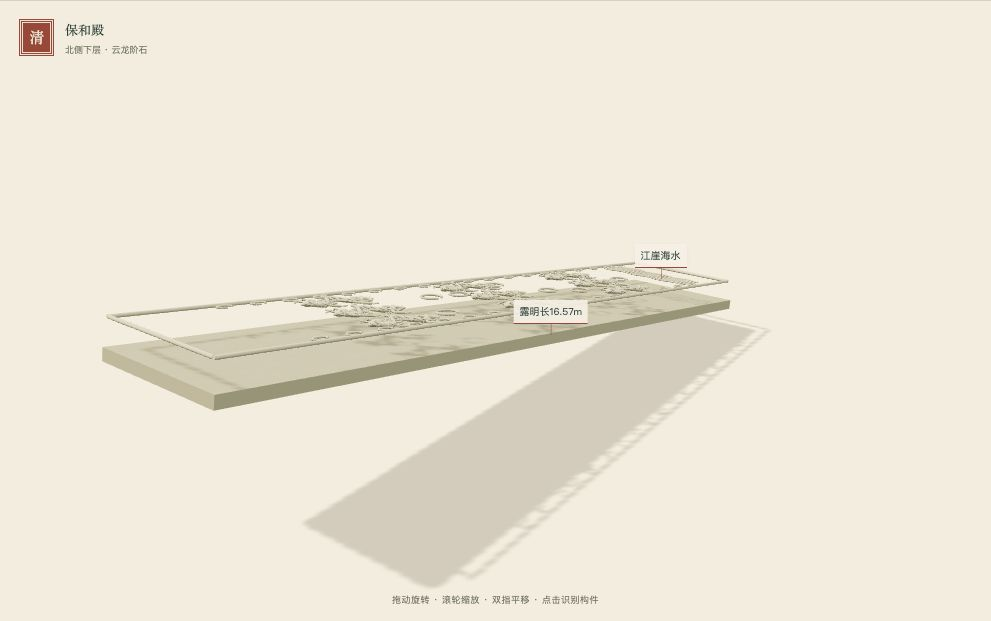
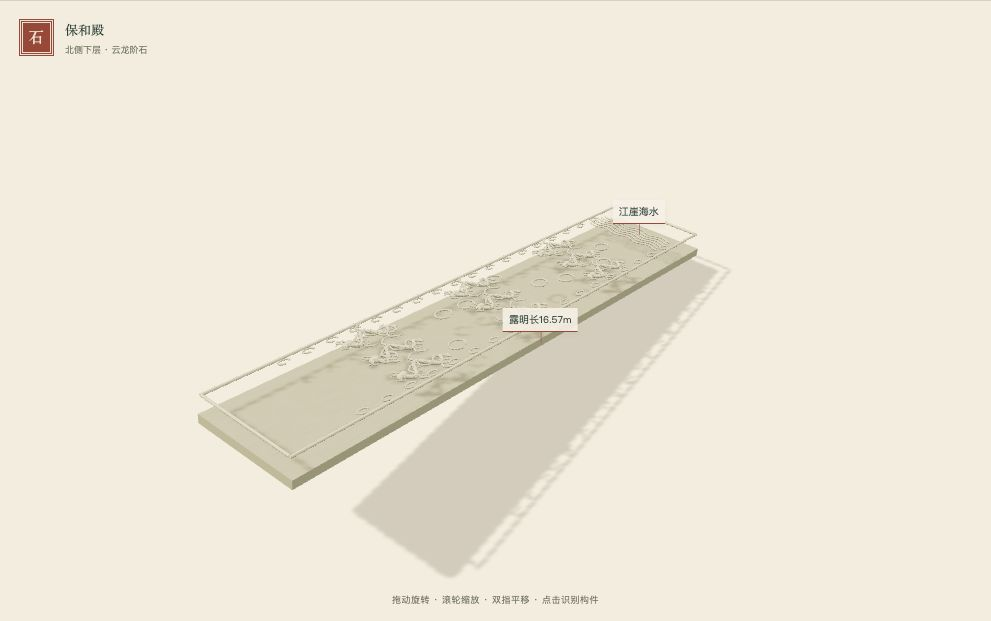
Complete and validate the ten-volume architecture collection

diff --git a/chinese-architecture/baohe/index.html b/chinese-architecture/baohe/index.html
@@ -4,14 +4,14 @@
 <link rel="icon" href="../../favicon-32.png"><link rel="stylesheet" href="style.css">
 <script type="importmap">{"imports":{"three":"../vendor/three.module.js"}}</script><script type="module" src="app.js"></script>
 </head><body>
-<header class="topbar"><a href="../../">← ReadForFun · 书架</a><a href="../fengxian/">第四卷 · 奉先殿</a><a class="brand" href="#">美轮美奂 <span>中国传统建筑艺术</span></a><a href="#evidence">资料与复原依据 ↗</a></header>
+<header class="topbar"><a href="../collection/">← 美轮美奂 · 合集</a><a href="../dianchunyi/">第九卷 · 殿春簃</a><a class="brand" href="#">美轮美奂 <span>中国传统建筑艺术</span></a><a href="#evidence">资料与复原依据 ↗</a></header>
 <main>
 <section class="intro"><div><p class="eyebrow">第十卷 · 台基雕作 · 木石之间</p><h1>故宫<span>保和殿</span><i class="seal">营<br>造</i></h1><p class="english">BAOHE DIAN · STONEWORK OF THE NORTHERN TERRACES</p></div><div class="intro-note"><span>石有层次，雕饰有位。</span><p>共用三台 · 北侧御路 · 栏间与螭首<br>旋转、剖切、拆合，循着构件读懂石作。</p></div></section>
 <nav id="chapters" class="chapters" aria-label="建筑研究步骤"></nav>
 <section id="studio" class="studio" aria-label="保和殿三维研究台">
 <aside class="layer-sidebar"><div class="panel-heading"><span>构造层</span><button id="layers-all">全部显示</button></div><p class="micro">逐层开关，看清前后与上下。</p><div id="layer-list"></div><div class="legend"><span><i class="documented"></i>三台与御路主题有据</span><span><i class="inferred"></i>细部为比例重建</span></div><button id="evidence-open" class="text-link">查看精度边界 ↘</button></aside>
 <div class="viewer-column"><div class="viewer-toolbar"><div class="view-buttons" role="group" aria-label="相机视角"><button data-view="iso" aria-pressed="true">斜观</button><button data-view="front" aria-pressed="false">前檐</button><button data-view="side" aria-pressed="false">东向</button><button data-view="back" aria-pressed="false">北向</button><button data-view="top" aria-pressed="false">俯视</button></div><button id="reset-view" title="恢复初始模型、构造层与视角">↺ 复位</button><button id="fullscreen" title="展开三维视图">⛶</button></div>
-<div id="viewport" tabindex="0" aria-label="可交互三维建筑。拖动旋转，滚轮缩放；也可用上方视角按钮。"><div id="model-loading" role="status">正在搭建台基与石栏…</div><div id="model-error" hidden role="alert"><strong>三维视图暂时无法显示</strong><p>请使用支持 WebGL 2 的浏览器，或重新加载。下方构造说明和研究依据仍可阅读。</p><button onclick="location.reload()">重新加载</button></div><div id="model-labels" aria-hidden="true"></div><div class="viewport-corner"><span class="seal">清</span><span>保和殿<br><small id="model-mode">构造研究模型</small></span></div><div class="viewport-hint">拖动旋转 · 滚轮缩放 · 双指平移 · 点击识别构件</div><div id="selection-chip" hidden></div></div>
+<div id="viewport" tabindex="0" aria-label="可交互三维建筑。拖动旋转，滚轮缩放；也可用上方视角按钮。"><div id="model-loading" role="status">正在搭建台基与石栏…</div><div id="model-error" hidden role="alert"><strong>三维视图暂时无法显示</strong><p>请使用支持 WebGL 2 的浏览器，或重新加载。下方构造说明和研究依据仍可阅读。</p><button onclick="location.reload()">重新加载</button></div><div id="model-labels" aria-hidden="true"></div><div class="viewport-corner"><span class="seal">石</span><span>保和殿<br><small id="model-mode">构造研究模型</small></span></div><div class="viewport-hint">拖动旋转 · 滚轮缩放 · 双指平移 · 点击识别构件</div><div id="selection-chip" hidden></div></div>
 <div id="node-picker" class="node-picker" hidden><label for="node-select">局部观察</label><select id="node-select"></select><span>局部 +Z 为台外；展开为观察位移，非施工步骤。</span></div><div class="viewer-controls"><div class="explode-control"><label for="explode"><span id="explode-label">分层拆解</span><output id="explode-value">0%</output></label><input id="explode" type="range" min="0" max="100" value="0" aria-label="模型拆解程度"></div><button id="explode-toggle">展开</button><label class="check-control"><input type="checkbox" id="section-toggle">剖切</label><label class="check-control"><input type="checkbox" id="labels-toggle" checked>标注</label><label class="check-control"><input type="checkbox" id="color-toggle">构造分色</label><label class="check-control"><input type="checkbox" id="finish-toggle">教学本色</label></div>
 <div id="section-controls" class="section-controls" hidden><label>剖切方向 <select id="section-axis"><option value="x">东西向移动</option><option value="z">南北向移动</option></select></label><input id="section-position" type="range" min="-100" max="100" value="0" aria-label="剖切位置"><button id="section-flip">反向保留</button></div>
 <div class="viewer-status"><span id="model-stats">构件加载中</span><span id="view-status" aria-live="polite">整体视图</span></div>
@@ -20,5 +20,5 @@
 </section>
 <section class="reading-section"><div><p class="eyebrow">台基雕作的阅读顺序</p><h2>石有重量，<br>纹样有位置。</h2></div><div class="reading-copy"><p>先从保和殿看三台，再靠近北侧御路。栏板、望柱和地栿各有边界；雕龙、流云与海水属于石面的雕刻，螭首则把装饰与排水出口合为一体。</p><div class="load-path"><span>整殿与台域</span><b>→</b><span>栏间与踏道</span><b>→</b><span>石面与出口</span></div><p class="micro">南缘为教学裁口。局部移位用于观察；雕饰不是另加的独立石件。出口阅读线不是流体仿真。</p></div></section>
 <section id="evidence" class="evidence"><div class="section-heading"><p class="eyebrow">资料与模型之间</p><h2>可见形态，明示边界。</h2></div><p class="evidence-intro">这是保和殿及直接相连台基的独立研究卷。三台是三殿共用台基，本卷只裁取北端；不把矩形裁块当成完整“土”字平面，不把外观照片当成隐藏结构证据。</p><div class="evidence-grid"><article><span class="evidence-tag">文献明确</span><h3>三台与北侧大石雕</h3><p>官方形制与杨乃济原刊页15支持三重台基、御路分层与露明尺寸。下层长石按乾隆重雕后的九龙、流云、海水、卷草组织。</p></article><article><span class="evidence-tag approximate">图像判读 · 比例推定</span><h3>栏间、线脚与雕饰</h3><p>故宫保和殿区域照片支持地栿、透空栏板、望柱头与螭首外形。逐栏尺寸、台层高度、主殿柱网坐标与屋架比例为教学推定；原创纹样并非拓片复原。</p></article><article><span class="evidence-tag unresolved">待核定</span><h3>基础、暗榫与内沟</h3><p>未建石榫、地下填筑与基础、台内暗沟。剖切后的均质台体只占位。未亲阅保和殿大木构架逐榀测绘，不声称已复原减柱区真实复杂梁端。</p></article></div><p class="evidence-intro">原书沿用前卷书目：楼庆西《美轮美奂：中国建筑装饰艺术》（2014，ISBN 9787112143085）。台基雕作是选题框架；正文未取得，保和殿是否收录、章节页码与图号映射待补。</p><p class="micro">石种：杨文称汉白玉，曹文称艾叶青，暂不以自然色解决材质争议。参考色概括现状，教学本色与构造分色用于阅读，未复原历史色谱。剖切没有实体封口；观察拆合不表示施工、结构或水力模拟。</p><div id="sources" class="sources"></div><a href="MODEL_NOTES.md" class="text-link">阅读参数、来源与精度边界 ↗</a></section>
-<footer><span>美轮美奂 · 保和殿研究卷</span><a href="../../">返回书架 ↗</a><small>原创参数化几何 · Three.js（MIT）· 模型尺度以米计</small></footer>
+<footer><span>美轮美奂 · 保和殿研究卷</span><a href="../collection/">返回合集 ↗</a><small>原创参数化几何 · Three.js（MIT）· 模型尺度以米计</small></footer>
 </main></body></html>

diff --git a/index.html b/index.html
@@ -958,46 +958,29 @@
               <button class="filter-button" type="button" data-filter="art" aria-pressed="false">艺术</button>
               <button class="filter-button" type="button" data-filter="game" aria-pressed="false">游戏</button>
             </div>
-            <p id="resultCount" class="result-count" aria-live="polite">10 个项目</p>
+            <p id="resultCount" class="result-count" aria-live="polite">9 个项目</p>
           </div>
         </div>
       </div>
 
       <section id="collectionGrid" class="collection-grid" aria-label="故事合集">
-        <article class="collection-card" data-category="art" data-search="美轮美奂 第十卷 保和殿 台基雕作 三台 御路 云龙阶石 栏板 望柱 地栿 螭首 architecture">
-          <a class="collection-link" href="chinese-architecture/baohe/" aria-label="打开《美轮美奂 · 第十卷 保和殿与台基雕作》">
-            <div class="collection-cover" style="background:#e8dfc9;"><img src="chinese-architecture/baohe/previews/whole.jpg" alt="第十卷保和殿、共用三台北端与御路石三维研究模型" style="display:block;width:100%;height:100%;object-fit:cover;"></div>
-            <div class="collection-copy"><p class="collection-kicker" style="color:#716c56;">ART · VOLUME X</p><h2>美轮美奂 · 保和殿</h2><p class="collection-summary">台基雕作 · 从整殿走入云龙阶石、栏间与螭首，拆读石件、承托和雕饰，明确共用三台的北端观察范围。</p><span class="collection-read">进入第十卷 ↗</span></div>
-          </a>
-        </article>
-        <article class="collection-card" data-category="art" data-search="美轮美奂 第九卷 殿春簃 网师园 户牖之艺 长窗 心仔 隔扇 框景 architecture">
-          <a class="collection-link" href="chinese-architecture/dianchunyi/" aria-label="打开《美轮美奂 · 第九卷 殿春簃》">
-            <div class="collection-cover" style="background:#e8dfc9;"><img src="chinese-architecture/dianchunyi/previews/whole.jpg" alt="第九卷殿春簃南向长窗与硬山小轩三维研究模型" style="display:block;width:100%;height:100%;object-fit:cover;"></div>
-            <div class="collection-copy"><p class="collection-kicker" style="color:#5b7464;">ART · VOLUME IX</p><h2>美轮美奂 · 殿春簃</h2><p class="collection-summary">户牖之艺 · 拆读长窗边梃、抹头与透空心仔，循梁檩椽回到柱网；从室内三窗观看后庭，明确区分通用开启练习与原轩待核节点。</p><span class="collection-read">进入第九卷 ↗</span></div>
-          </a>
-        </article>
-        <article class="collection-card" data-category="art" data-search="architecture decoration traditional chinese art 中国 传统 建筑 艺术 美轮美奂 斗拱 柱础 榫卯 梁柱 佛光寺 东大殿 三维 3D 剖切 美轮美奂 独乐寺 观音阁 第二卷 辽代 木构 叉柱 斗拱 建筑 三维 3D architecture decoration 美轮美奂 应县木塔 佛宫寺 释迦塔 第三卷 辽代 五明四暗 八角 双圈 斗拱 architecture 美轮美奂 奉先殿 前殿 第四卷 清代 七踩 九踩 溜金 旋子 彩画 三交六椀 重檐 庑殿 architecture 美轮美奂 晋祠 圣母殿 第五卷 宋代 盘龙 深廊 斜面 梁栿 重檐 歇山 architecture 美轮美奂 第六卷 天坛 祈年殿 方井 弧梁 龙井柱 圆形 藻井 蓝瓦 architecture 美轮美奂 第七卷 千门之美 画中游 垂花门 悬柱 十二垂头 挑梁 颐和园 architecture 美轮美奂 第八卷 雕梁画栋 宏村 承志堂 前厅 雀替 宴官图 木雕 浮雕 透雕 architecture">
+
+        <article class="collection-card" data-category="art" data-search="architecture decoration traditional chinese art 中国 传统 建筑 艺术 美轮美奂 斗拱 柱础 榫卯 梁柱 佛光寺 东大殿 三维 3D 剖切 美轮美奂 独乐寺 观音阁 第二卷 辽代 木构 叉柱 斗拱 建筑 三维 3D architecture decoration 美轮美奂 应县木塔 佛宫寺 释迦塔 第三卷 辽代 五明四暗 八角 双圈 斗拱 architecture 美轮美奂 奉先殿 前殿 第四卷 清代 七踩 九踩 溜金 旋子 彩画 三交六椀 重檐 庑殿 architecture 美轮美奂 晋祠 圣母殿 第五卷 宋代 盘龙 深廊 斜面 梁栿 重檐 歇山 architecture 美轮美奂 第六卷 天坛 祈年殿 方井 弧梁 龙井柱 圆形 藻井 蓝瓦 architecture 美轮美奂 第七卷 千门之美 画中游 垂花门 悬柱 十二垂头 挑梁 颐和园 architecture 美轮美奂 第八卷 雕梁画栋 宏村 承志堂 前厅 雀替 宴官图 木雕 浮雕 透雕 architecture 美轮美奂 第九卷 殿春簃 网师园 户牖之艺 长窗 心仔 隔扇 框景 architecture 美轮美奂 第十卷 保和殿 台基雕作 三台 御路 云龙阶石 栏板 望柱 地栿 螭首 architecture">
           <a class="collection-link" href="chinese-architecture/collection/" aria-label="打开合集《美轮美奂 · 中国传统建筑艺术》">
             <div class="collection-cover">
               <span class="collection-sheet" style="background-image:url('chinese-architecture/yingxian/previews/whole.jpg')"></span>
               <span class="collection-sheet" style="background-image:url('chinese-architecture/qinian/previews/whole.jpg')"></span>
               <span class="collection-sheet" style="background-image:url('chinese-architecture/cover-3d.jpg')"></span>
-              <span class="collection-badge">COLLECTION · CHINESE ARCHITECTURE</span>
+              <span class="collection-badge">10 VOLUMES · CHINESE ARCHITECTURE</span>
             </div>
             <div class="collection-copy">
               <p class="collection-kicker" style="color:#9e4538;">COLLECTION · TRADITIONAL CHINESE ARCHITECTURE</p>
               <h2>美轮美奂</h2>
-              <p class="collection-summary">中国传统建筑艺术 · 从佛光寺到保和殿，逐卷旋转、剖切与拆合，读懂木石构造与装饰。</p>
+              <p class="collection-summary">十卷中国传统建筑艺术 · 从佛光寺到保和殿，逐卷旋转、剖切与拆合，读懂木石构造与装饰。</p>
               <span class="collection-read">进入合集 ↗</span>
             </div>
           </a>
         </article>
-
-
-
-
-
-
 
         <article class="collection-card" data-category="story" data-search="planet earth nature coast ocean forest grassland 地球 自然 海岸 海洋 森林 草原">
           <a class="collection-link" href="our-planet-earth/" aria-label="打开合集《我们的星球 - 地球》">

diff --git a/chinese-architecture/dianchunyi/index.html b/chinese-architecture/dianchunyi/index.html
@@ -4,7 +4,7 @@
 <link rel="icon" href="../../favicon-32.png"><link rel="stylesheet" href="style.css">
 <script type="importmap">{"imports":{"three":"../vendor/three.module.js"}}</script><script type="module" src="app.js"></script>
 </head><body>
-<header class="topbar"><a href="../../">← ReadForFun · 书架</a><a href="../chengzhi/">第八卷 · 承志堂</a><a class="brand" href="#">美轮美奂 <span>中国传统建筑艺术</span></a><a href="#evidence">资料与复原依据 ↗</a></header>
+<header class="topbar"><a href="../collection/">← 美轮美奂 · 合集</a><a href="../chengzhi/">第八卷 · 承志堂</a><a class="brand" href="#">美轮美奂 <span>中国传统建筑艺术</span></a><a href="#evidence">资料与复原依据 ↗</a></header>
 <main>
 <section class="intro"><div><p class="eyebrow">第九卷 · 园林户牖与框景</p><h1>殿春<span>簃</span><i class="seal">营<br>造</i></h1><p class="english">DIANCHUNYI · A VIEW THROUGH THE WINDOW</p></div><div class="intro-note"><span>窗有界，景无尽。</span><p>南向长窗 · 北墙三窗 · 蕉竹石<br>旋转、剖切、拆合，循着构件读懂木构。</p></div></section>
 <nav id="chapters" class="chapters" aria-label="建筑研究步骤"></nav>
@@ -22,5 +22,5 @@
 </section>
 <section class="reading-section"><div><p class="eyebrow">本卷的阅读路径</p><h2>把窗看清，<br>再把景看远。</h2></div><div class="reading-copy"><p>柱与梁围合房间，门框接纳长窗，边梃与抹头收住格心。格心有孔，下板有实木；它们改变采光、通行与可见范围。北面三个窗洞把后庭纳入室内，移动观察位，就能看见近远遮挡的变化。</p><div class="load-path"><span>瓦面 · 椽檩</span><b>↓</b><span>横架 · 联系枋</span><b>↓</b><span>柱 · 石础</span></div><p class="micro">窗扇与心仔是围护木作，不能代替承重柱。分层展开仅为观察；通用开启练习与建筑原件证据分开。</p></div></section>
 <section id="evidence" class="evidence"><div class="section-heading"><p class="eyebrow">资料与模型之间</p><h2>窗有据，未知仍留白。</h2></div><p class="evidence-intro">研究对象始终是苏州网师园殿春簃正轩。2025数字测绘论文提供历史图纸与现状对照；本卷依据图1的平面、南立面、剖透视表达建筑关系，并用图2核查体量。现状有修缮变迁，本模型既非清代原貌，也非原论文点云的直接转换。</p><div class="evidence-grid"><article><span class="evidence-tag">文献明确</span><h3>硬山小轩与独立后庭</h3><p>论文研究对象说明小轩带复室书房。图1记录三间正轩与后庭窗洞、图2呈现2024—2025采集后的模型。西复室仅提示界面，南大庭只保留阶石。</p></article><article><span class="evidence-tag approximate">图像判读 · 比例推定</span><h3>梁架与门窗的关系</h3><p>柱线、横架、长窗与窗洞关系参考原图。模型面阔7.2米、进深4.8米、梁架标高与木作截面为教学选值，未把无标注的图像量取当作建筑实测。</p></article><article><span class="evidence-tag unresolved">待核定</span><h3>开启、暗榫与历史色</h3><p>本轩轴榫、折叠关系、玻璃状态、门窗逐条纹样、隐藏接合与修缮替换待核。开启练习是通用假设；木石本色和淡木色都是教学外观，无历史色谱复原。</p></article></div><p class="evidence-intro">海外参照单列：纽约明轩是经改编的博物馆庭院，大都会馆藏记录的木种、五金和尺寸不用于苏州原轩。原书为楼庆西《美轮美奂：中国建筑装饰艺术》（2014，ISBN 9787112143085），本卷“户牖之艺”的正文、实例与页码对应待补。</p><p class="micro">未取得原点云、全套节点与逐件尺寸；剖切无实体封口；后庭植石为概括语境。完整研究记录与来源局限见下方文档。</p><div id="sources" class="sources"></div><a href="MODEL_NOTES.md" class="text-link">阅读参数、证据表与建模记录 ↗</a></section>
-<footer><span>美轮美奂 · 殿春簃研究卷</span><a href="../../">返回书架 ↗</a><small>原创参数化几何 · Three.js（MIT）· 模型尺度以米计</small></footer>
+<footer><span>美轮美奂 · 殿春簃研究卷</span><a href="../collection/">返回合集 ↗</a><small>原创参数化几何 · Three.js（MIT）· 模型尺度以米计</small></footer>
 </main></body></html>

diff --git a/chinese-architecture/collection/index.html b/chinese-architecture/collection/index.html
@@ -4,7 +4,7 @@
   <meta charset="utf-8">
   <meta name="viewport" content="width=device-width, initial-scale=1">
   <title>美轮美奂 · 中国传统建筑艺术合集 · ReadForFun</title>
-  <meta name="description" content="美轮美奂：中国传统建筑艺术交互合集。从佛光寺到承志堂，逐卷进入木构、斗拱、榫卯与装饰的三维世界。">
+  <meta name="description" content="美轮美奂：中国传统建筑艺术交互合集。从佛光寺到保和殿，逐卷进入木构、斗拱、榫卯与装饰的三维世界。">
   <link rel="icon" href="../../favicon-32.png">
   <link rel="stylesheet" href="../../collections.css">
   <link rel="stylesheet" href="style.css">
@@ -24,12 +24,12 @@
           <h1 id="collection-title">美轮美奂</h1>
           <p class="collection-subtitle">中国传统建筑艺术</p>
           <p>从一座建筑，读懂一榫一卯。走入殿堂、楼阁与庭院，在旋转、剖切与拆合之间，看见构造如何托起装饰。</p>
-          <div class="hero-meta">逐卷入藏 · 三维交互 · 构造与装饰</div>
+          <div class="hero-meta">十卷入藏 · 三维交互 · 构造与装饰</div>
           <a class="browse-volumes" href="#volumes">浏览卷目 ↓</a>
         </div>
       </section>
-      <div class="volume-heading" id="volumes"><h2>卷目</h2><p>十卷规划 · 已入藏卷目</p></div>
-      <section class="story-list" aria-label="美轮美奂已入藏卷目">
+      <div class="volume-heading" id="volumes"><h2>卷目</h2><p>第一卷 — 第十卷</p></div>
+      <section class="story-list" aria-label="美轮美奂第一至第十卷">
         <article class="story-card" id="volume-1">
           <a class="volume-cover" href="../" aria-label="进入第一卷：佛光寺东大殿"><img class="story-cover" src="../cover-3d.jpg" alt="佛光寺东大殿三维研究模型" loading="lazy" width="800" height="540"></a>
           <div><p class="episode">第一卷 · 构造与装饰</p><h2><a href="../">佛光寺东大殿</a></h2><p>聚焦佛光寺东大殿 · 三维旋转、剖切与逐层拆合，深入柱网、铺作、梁架和椽瓦的空间结构。</p><a class="read-story" href="../">进入第一卷 ↗</a></div>
@@ -61,6 +61,10 @@
         <article class="story-card" id="volume-8">
           <a class="volume-cover" href="../chengzhi/" aria-label="进入第八卷：承志堂前厅"><img class="story-cover" src="../chengzhi/previews/whole.jpg" alt="承志堂前厅三维研究模型" loading="lazy" width="800" height="540"></a>
           <div><p class="episode">第八卷 · 构造与装饰</p><h2><a href="../chengzhi/">承志堂前厅</a></h2><p>雕梁画栋 · 从厅口梁面走入木雕深处，拆读雀替接触边、宴官图层次与隔扇透空，把图像有据的轮廓和推定屋架分开读。</p><a class="read-story" href="../chengzhi/">进入第八卷 ↗</a></div>
+        </article>
+        <article class="story-card" id="volume-9">
+          <a class="volume-cover" href="../dianchunyi/" aria-label="进入第九卷：网师园殿春簃"><img class="story-cover" src="../dianchunyi/previews/whole.jpg" alt="殿春簃木构、长窗与后庭视线三维研究模型" loading="lazy" width="800" height="540"></a>
+          <div><p class="episode">第九卷 · 户牖之艺</p><h2><a href="../dianchunyi/">网师园殿春簃</a></h2><p>拆读长窗边梃、抹头与透空心仔，循梁檩椽回到柱网；从室内三窗观看后庭，区分通用开启练习与原轩待核节点。</p><a class="read-story" href="../dianchunyi/">进入第九卷 ↗</a></div>
         </article>
         <article class="story-card" id="volume-10">
           <a class="volume-cover" href="../baohe/" aria-label="进入第十卷：保和殿与台基雕作"><img class="story-cover" src="../baohe/previews/whole.jpg" alt="保和殿、三台北端与御路石三维研究模型" loading="lazy" width="800" height="540"></a>

diff --git a/chinese-architecture/baohe/app.js b/chinese-architecture/baohe/app.js
@@ -113,7 +113,7 @@ function fittedPosition(direction){
 }
 function setView(view,animate=true){
  if(!camera)return;const detailView=activeModel===detail;let direction;
- switch(view){case 'front':direction=new THREE.Vector3(0,.10,1);break;case 'back':direction=new THREE.Vector3(0,.10,-1);break;case 'side':direction=new THREE.Vector3(1,.12,0);break;case 'top':direction=new THREE.Vector3(0,1,.001);break;default:direction=new THREE.Vector3(1,.52,detailView?1.2:-1.2);}
+ switch(view){case 'front':direction=new THREE.Vector3(0,.10,1);break;case 'back':direction=new THREE.Vector3(0,.10,-1);break;case 'side':direction=new THREE.Vector3(1,.12,0);break;case 'top':direction=new THREE.Vector3(0,1,.001);break;default:direction=new THREE.Vector3(1,detailView&&detailNode==='ramp'?1.15:.52,detailView?1.2:-1.2);}
  const {target,destination}=fittedPosition(direction);
  if(animate&&!reduced)animation={from:camera.position.clone(),to:destination,fromTarget:controls.target.clone(),toTarget:target,start:performance.now(),duration:450};
  else{camera.position.copy(destination);controls.target.copy(target);camera.lookAt(target);controls.update();}

diff --git a/chinese-architecture/baohe/VALIDATION.md b/chinese-architecture/baohe/VALIDATION.md
@@ -1,0 +1,60 @@
+# 第十卷本地验收 · 2026-10-13
+
+可运行本地研究展卷：[保和殿与台基雕作](http://localhost:8765/chinese-architecture/baohe/)。本任务未执行提交、推送或发布。书架与建筑合集均已有第十卷入口；没有修改其他卷模型、测试或截图。
+
+## 模型检查
+
+```sh
+node --test chinese-architecture/baohe/tests/model.test.js chinese-architecture/tests/model.test.js chinese-architecture/dule/tests/model.test.js chinese-architecture/yingxian/tests/model.test.js chinese-architecture/fengxian/tests/model.test.js chinese-architecture/jinci/tests/model.test.js chinese-architecture/qinian/tests/model.test.js
+```
+
+本次快照 **81项通过**，本卷13项，前六卷合计68项。前卷测试数来自此次实际文件，不据此宣告其他任务完整验收。
+
+本卷核验：
+
+- 九间五间外围、前金列教学减六柱；38个教学主柱位不重复。具体柱站位与总数仍为推定。
+- 每柱脚接自己的石础上皮；前列转承教学骨架两端接保留金柱。没有用无解释的悬空柱替代减柱关系；该跨接不代表真实单根大梁。
+- 三台层级、共同南裁口和不闭合南缘栏杆；台体占位与完整土字形平面分开。
+- 大御路取露明面16.57×3.07m，与整料基准分开；三级斜面上下端接教学台层标高，两側14步为推定。
+- 九个龙纹主题依附同一长石面；雕面观察分离不当成独立石件。
+- 一栏间包含地栿、两望柱、实板与上部透空承托件；石榫没有虚构。
+- 螭首朝北、东、西对应台外，口沿中孔不填黑片；北栏没有重复叠建。外口和头部原位拼合，没有在口前再放阻塞出口的实体。
+- 下檐真实中心孔、独立上脊与山面；椽线逐段采样在本教学瓦面下。
+- 桁下短柱头接桁下皮，上屋架短柱头接下一梁下皮；没有以节点照片声称隐藏端榫已核。
+- 全殿与四局部ID唯一，位置、方向、尺度、矩阵、几何顶点有限；所有显示类型都有拾取说明与来源状态。
+
+测试检查代码中的空间约束；不是文物测绘或结构求解。主殿逐榀梁架、真实石分件、暗榫、内部排水均未达到考证级复原。
+
+## 实际浏览器验收
+
+Chrome headless + Playwright，真实WebGL渲染。1600×1150桌面、390×844手机触屏模拟、1366×900减少动态。最终代码与材质改动后重新运行通过。
+
+```sh
+PLAYWRIGHT_MODULE=/absolute/path/to/playwright/index.mjs CHROME_EXECUTABLE='/absolute/path/to/Google Chrome' node chinese-architecture/baohe/tests/browser.mjs
+```
+
+复用已有8765静态服务；用`PREVIEW_URL`可替换。网站直接加载本地Three.js，无CDN、构建或Playwright运行依赖。
+
+- 七步全部切换；相机、章节文字、局部菜单、可见层同步。
+- 五视角，四局部合拢/最大展开及整体最大展开；可见包围盒8个角点都在画幅内，取景动态适配。
+- X/Z剖切轴、位置−100/0/100、反向保留可用；未提供实体剖切封口。
+- 显隐、全部显示、参考色/教学本色/系统分色、标注与复位可用。全殿12个实体层；第13层出口阅读线只在螭首局部有辅助几何，空层禁用。
+- 关键构件选择器和实际画布射线拾取均成功；鼠标拖动与滚轮分别改变相机；方向键、缩放、复位可用。
+- 手机没有横向溢出；CDP触屏拖动实际改变相机，局部最大展开投影全部在画幅内。此为触屏模拟，不代表真实手机GPU验收。
+- 减少动态设置下局部切换通过，加载失败区域未出现。
+- 前五卷作只读页面加载回归：标题、WebGL初始化通过。模型检查覆盖前六卷；没有运行其他卷截图生成脚本或重做其交付。
+- 根书架第十卷卡片唯一、封面加载成功、点击正确；第九卷根入口保留。
+- 合集中第十卷卡片唯一、封面和点击通过；第1—8卷原入口仍各一份。当前合集第9卷尚未由其任务归入，本任务保留其根书架入口，不改写其他卷的组织状态。
+- 本次页面脚本异常0、HTTP资源错误0；`git diff --check`通过。
+
+## 视觉复核与最终预览
+
+全部截图保存于本卷`previews/`。亲看最终全貌、南向、桌面长图、骨架、剖面、最大展开、四局部合拢/展开与手机画幅/长图。界面保持前卷暖底、石木本色与克制黄朱青绿。
+
+`whole.jpg`为北向斜观与书架封面；`desktop.jpg`桌面全页；`front.jpg`南向；`section.jpg`三台剖观；`roof-frame.jpg`揭瓦木构；`exploded.jpg`整体最大展开；`terrace.jpg`全部实体层最大展开；`mobile-whole.jpg`手机整体；`mobile.jpg`手机御路局部最大展开。`rail-*`、`chi-*`、`ramp-*`、`terrace-*`为四局部合拢/展开；`node-exploded.jpg`为云龙阶石展开。
+
+首轮检查修正了上屋两坡与侧戗坡使用不同曲线的接缝，改用同一全局参数。后续核对桁椽高差与短柱承接，加入支承测试。石雕头部、卷草、海水与流云经细化仍是原创概括，没有将精细外观升级为实测主张。
+
+## 精度边界
+
+原书正文及保和殿实例页码映射待补；官方高29.5m与1240㎡的基准不直接用于推算本模型各尺寸；北端各层抄平、真实柱位/移柱/减柱转承、逐科昂尾、石分件、石榫铁件、地下基础、台内暗沟、大石雕埋入部分、精确雕刻/石种、历史颜色、转角大螭、跨浏览器及真机GPU未核。模型仅表达可追溯的形制、可见载体及明确标记的教学推定。详情见[MODEL_NOTES.md](MODEL_NOTES.md)。

diff --git a/chinese-architecture/SERIES_PLAN.md b/chinese-architecture/SERIES_PLAN.md
@@ -1,6 +1,6 @@
 # 美轮美奂系列十卷规划
 
-本系列确定以 **10 卷**收束。第 1—7 卷已有独立本地交付记录；第 8 卷的并行交付补记保留，后续数量按下方实时核查口径说明。每卷继续聚焦一座主建筑，深入其构造与装饰，不以增加建筑数量代替模型质量。
+本系列确定以 **10 卷**收束。第 1—10 卷均已有本地交付记录，并已归入同一合集。每卷继续聚焦一座主建筑，深入其构造与装饰，不以增加建筑数量代替模型质量。
 
 这是本项目的编排决定，不是原书的卷数，也不表示已覆盖原书全部实例或完成逐页改编。第 7—10 卷的主题与卷号固定，主建筑为优先研究对象；测绘资料不足时，可在同一主题内替换实例，不自动增加卷数。
 
@@ -36,17 +36,14 @@
 
 ## 剩余数量的口径
 
-> 第九卷交付补记（2026-10-13）：第9卷已独立完成本地实现、模型测试、桌面/手机模拟验收与书架入口。下方既有数量来自前次核查；本补记仅更新第9卷，第10卷及全系列最新合计由其独立交付记录与后续汇总确认，不从目录出现推断完成。
+状态核查日期：2026-10-13。前八卷已有本地交付；本次核读第七、八、九、十卷独立验收记录，并补齐第九、十卷合集导航。
 
-> 第八卷交付补记（2026-10-13）：第8卷现已本地交付。原先合计为启动时基线；第七卷补记时重新读取并核查下方数量。本任务仅更新第8卷，不据此改写其他并行任务的选题和状态。后续汇总须重新读取各卷独立验收记录。
+- **还需新增的卷：0 卷**。十卷范围已全部实现。
+- **尚未本地交付的卷：0 卷**。各卷具体模型与浏览器验证以自己的 `VALIDATION.md` 为准；第一卷参见 `MODEL_NOTES.md`。
+- **合集收录：10 卷**，按第一至第十卷排列；根书架只保留一个美轮美奂合集入口，原详情地址继续有效。
+- 本次是导航整合与浏览器往返检查，没有重新执行所有模型几何验收，也没有提交、推送或发布。
 
-状态核查日期：2026-10-13。状态来自任务记录和当前工作区，不代表重新完成专业构造验收。
-
-- **按当前交付状态还需交付的卷：2 卷**，第 9—10 卷。第 8 卷依上方并行任务的交付补记计为已本地交付；此项不代表第七卷重做了第八卷验收。
-- **本次尚待核读独立验收记录的卷：3 卷**，第 8—10 卷。本次已核读第5卷独立验收，第7卷新增交付；核查时第8卷已有交付补记但 VALIDATION.md 尚未出现，第9—10卷目录正在新增，未据目录出现推断已交付。后续独立记录出现后同步此口径。
-- 第 1—7 卷已有本地交付，但仍存在各自 `MODEL_NOTES.md` 记录的未决项；这些属于原卷完善，不另算新增卷。
-
-后续报告剩余数量时，先更新交付状态，再分别说明新增与未交付。达到十卷交付、共同交互验收和证据边界记录后，本系列按当前范围收束；不把“十卷交付”称为原书全文复原或测绘级复原。
+各卷 `MODEL_NOTES.md` 中的原书映射、逐件测绘、隐蔽节点等未决问题仍需完善。十卷本地交付不代表原书全文复原、专业测绘验收或全部考证完成。合集整合验收见 [collection/VALIDATION.md](collection/VALIDATION.md)。
 
 ## 后续执行
 

diff --git a/chinese-architecture/collection/VALIDATION.md b/chinese-architecture/collection/VALIDATION.md
@@ -1,0 +1,18 @@
+# 十卷合集导航验收
+
+2026-10-13，本地整合完成，未提交、推送或发布。
+
+核读第七至第十卷独立验收记录后，将第九卷补入既有合集、第十卷保留一份，按 1—10 排列。根书架统一保留一个合集入口，各卷原地址保持有效；第九、十卷顶部和页脚返回合集。README、制作规范、项目说明及规划中的数量已同步。
+
+Chrome headless + Playwright，1440×1000 桌面、390×844 手机触屏模拟：
+
+- 合集十张卡片的 ID 唯一、顺序正确，全部封面解码成功。
+- 十卷逐一从合集进入原详情地址，WebGL 画布加载，顶部导航返回合集。
+- 第九、十卷在手机尺寸下进入详情并从页脚返回合集，无合集横向溢出。
+- 根书架仅一个建筑合集入口；搜索“殿春簃”“保和殿”“御路”“心仔”均能找到该合集。
+- 艺术分类只显示一个合集；合集返回书架有效。
+- 本次页面脚本异常与建筑资源 HTTP 错误为零；已目视复核桌面第九/十卷、手机末卷和书架单一入口。
+- 第九、十卷除详情 HTML 导航外的所有文件，整合前后 SHA-256 一致，包括模型、证据、截图和测试。
+- `git diff --check` 通过。
+
+本次验证导航组织，不重新宣告各卷全部几何验收。模型证据、推定与精度边界继续以各卷 MODEL_NOTES.md 和 VALIDATION.md 为准。各卷原浏览器脚本中按旧平铺书架入口编写的断言仍作为当时交付记录保留，本次没有修改那些测试；合集入口以本记录为准。

diff --git a/chinese-architecture/AGENTS.md b/chinese-architecture/AGENTS.md
@@ -15,4 +15,4 @@
 
 ## 合集导航
 
-书架通过 `chinese-architecture/collection/` 进入美轮美奂合集，第一至第八卷在合集内按卷号展示，各卷原地址保留，顶部和页脚返回合集。不要再将这八卷逐卷平铺回根书架。本次依用户要求暂不调整第九、十卷的文件和现有入口，后续纳入合集时再同步卷目与数量。
+书架通过 `chinese-architecture/collection/` 进入美轮美奂合集，第一至第十卷在合集内按卷号展示，各卷原地址保留，顶部和页脚返回合集。不要再将各卷独立平铺回根书架。调整合集时同步实际卷数、搜索词与文档；新增内容须以实际交付记录为准。

diff --git a/chinese-architecture/PRODUCTION_GUIDE.md b/chinese-architecture/PRODUCTION_GUIDE.md
@@ -1,6 +1,6 @@
 # 美轮美奂系列制作规范
 
-全系列卷目与剩余数量见 [十卷规划](SERIES_PLAN.md)。当前范围为十卷，已安排至第六卷，后续新增四卷；各卷交付状态单独记录。
+全系列卷目与剩余数量见 [十卷规划](SERIES_PLAN.md)。当前十卷均已本地交付并归入同一合集；各卷验收与未决问题分别记录。
 
 本规范供 ReadForFun 后续制作中国传统建筑艺术交互卷使用，根据第一卷佛光寺东大殿的制作与反馈整理。重点是让读者看懂真实的空间构造，并把结构、装饰与建筑实例联系起来。
 

diff --git a/README.md b/README.md
@@ -4,7 +4,7 @@
 
 ## 中国传统艺术
 
-[美轮美奂合集](chinese-architecture/collection/)汇集第一至第八卷，按卷号进入各建筑详情；各卷原地址保留。第九、十卷暂保留各自入口，待后续纳入。
+[美轮美奂合集](chinese-architecture/collection/)汇集全部十卷，书架统一进入合集，再按卷号进入各建筑详情；各卷原地址保留，详情可返回合集。
 
 后续展卷参考：[美轮美奂系列制作规范](chinese-architecture/PRODUCTION_GUIDE.md)，含原书对应、证据分级、三维构造、交互、装饰与验收要求。
 
